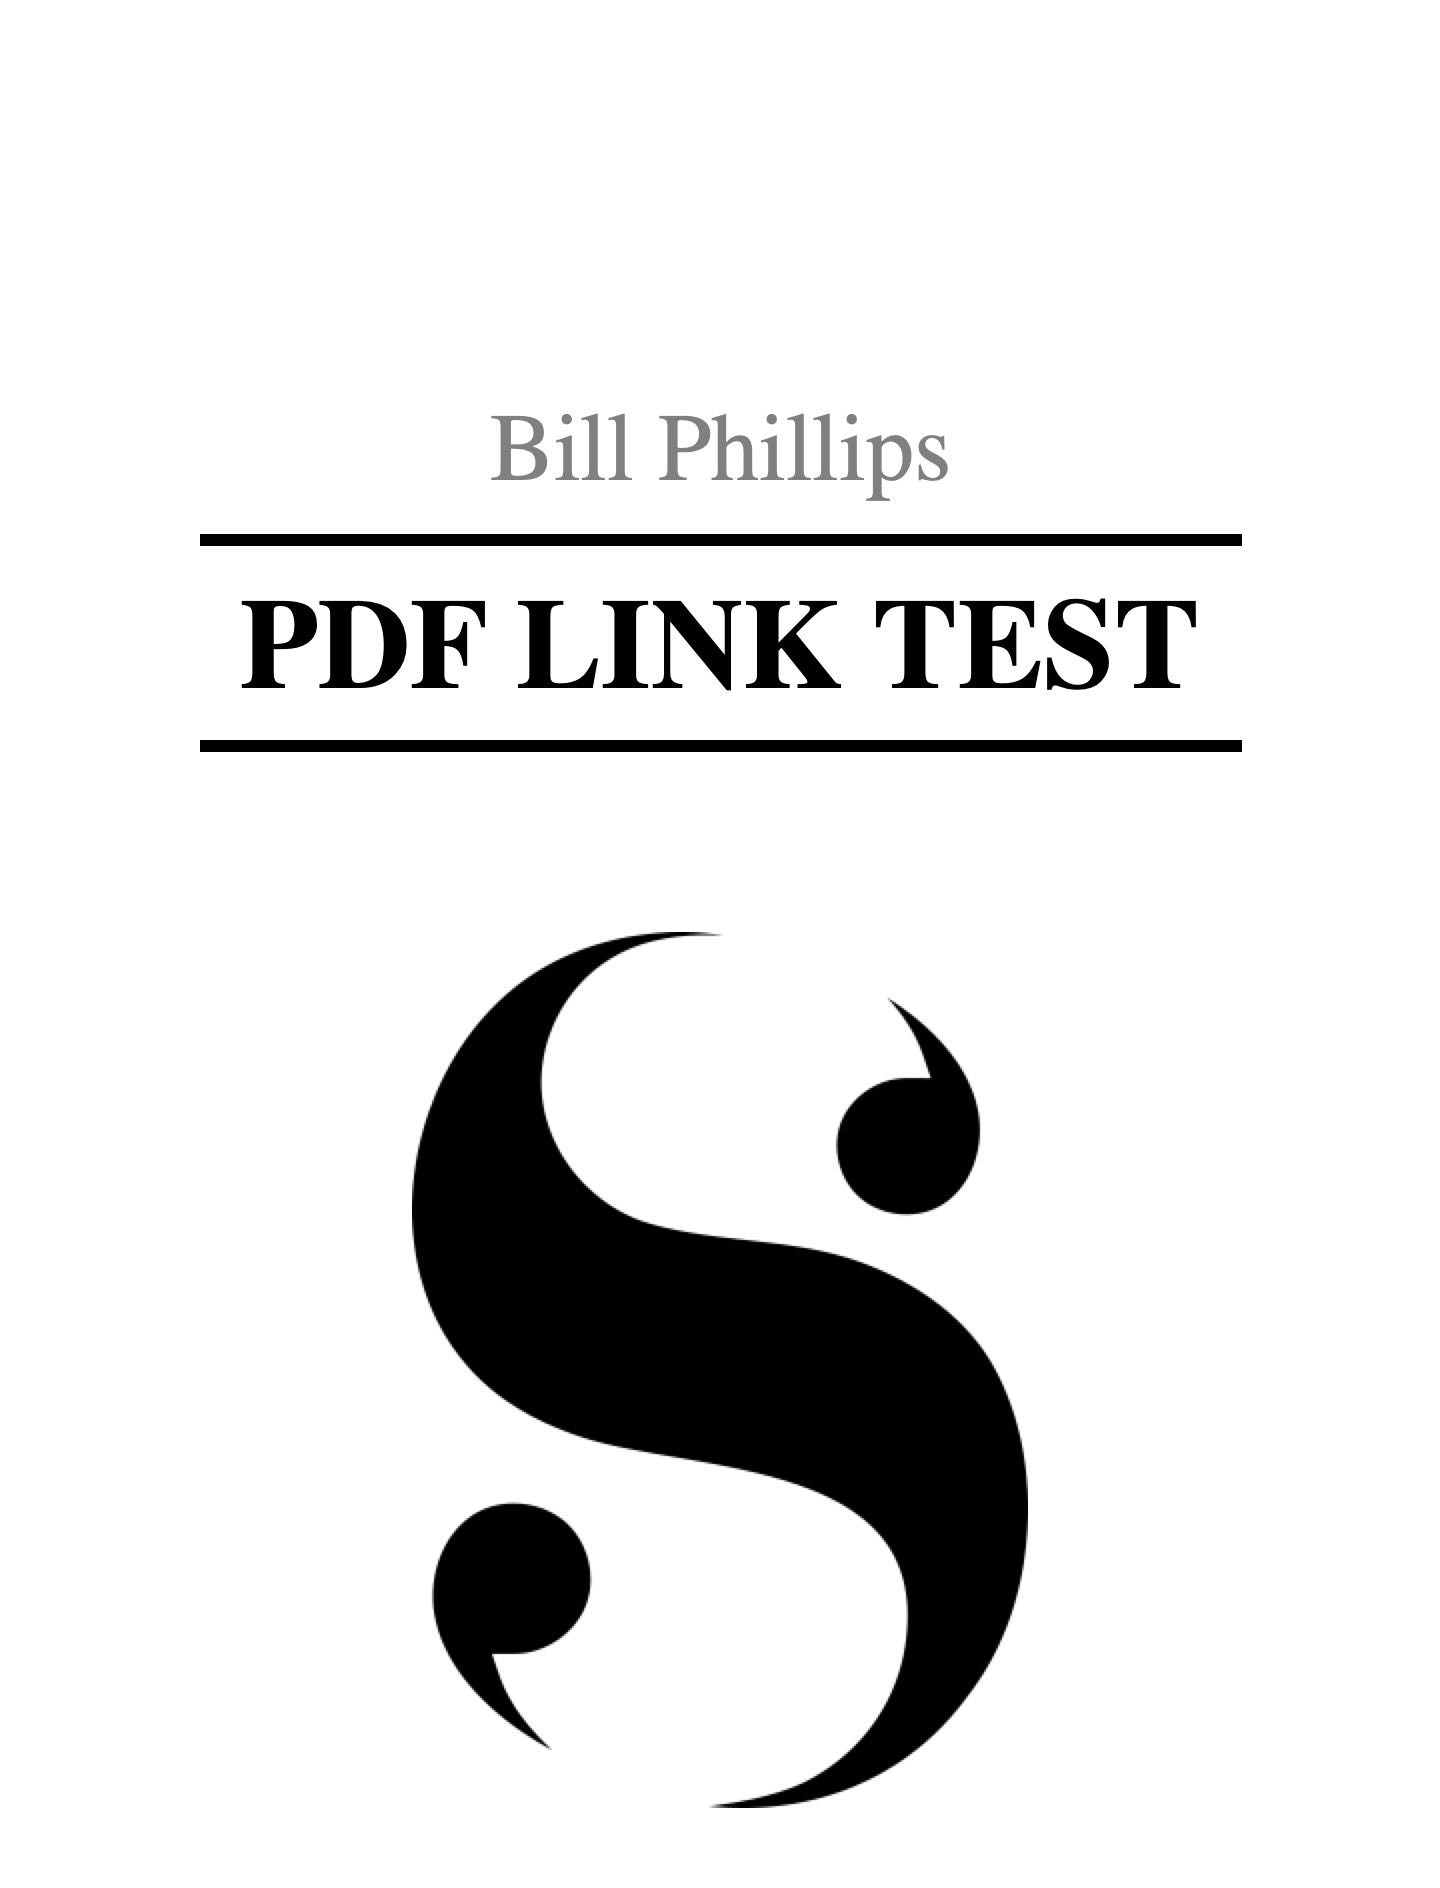
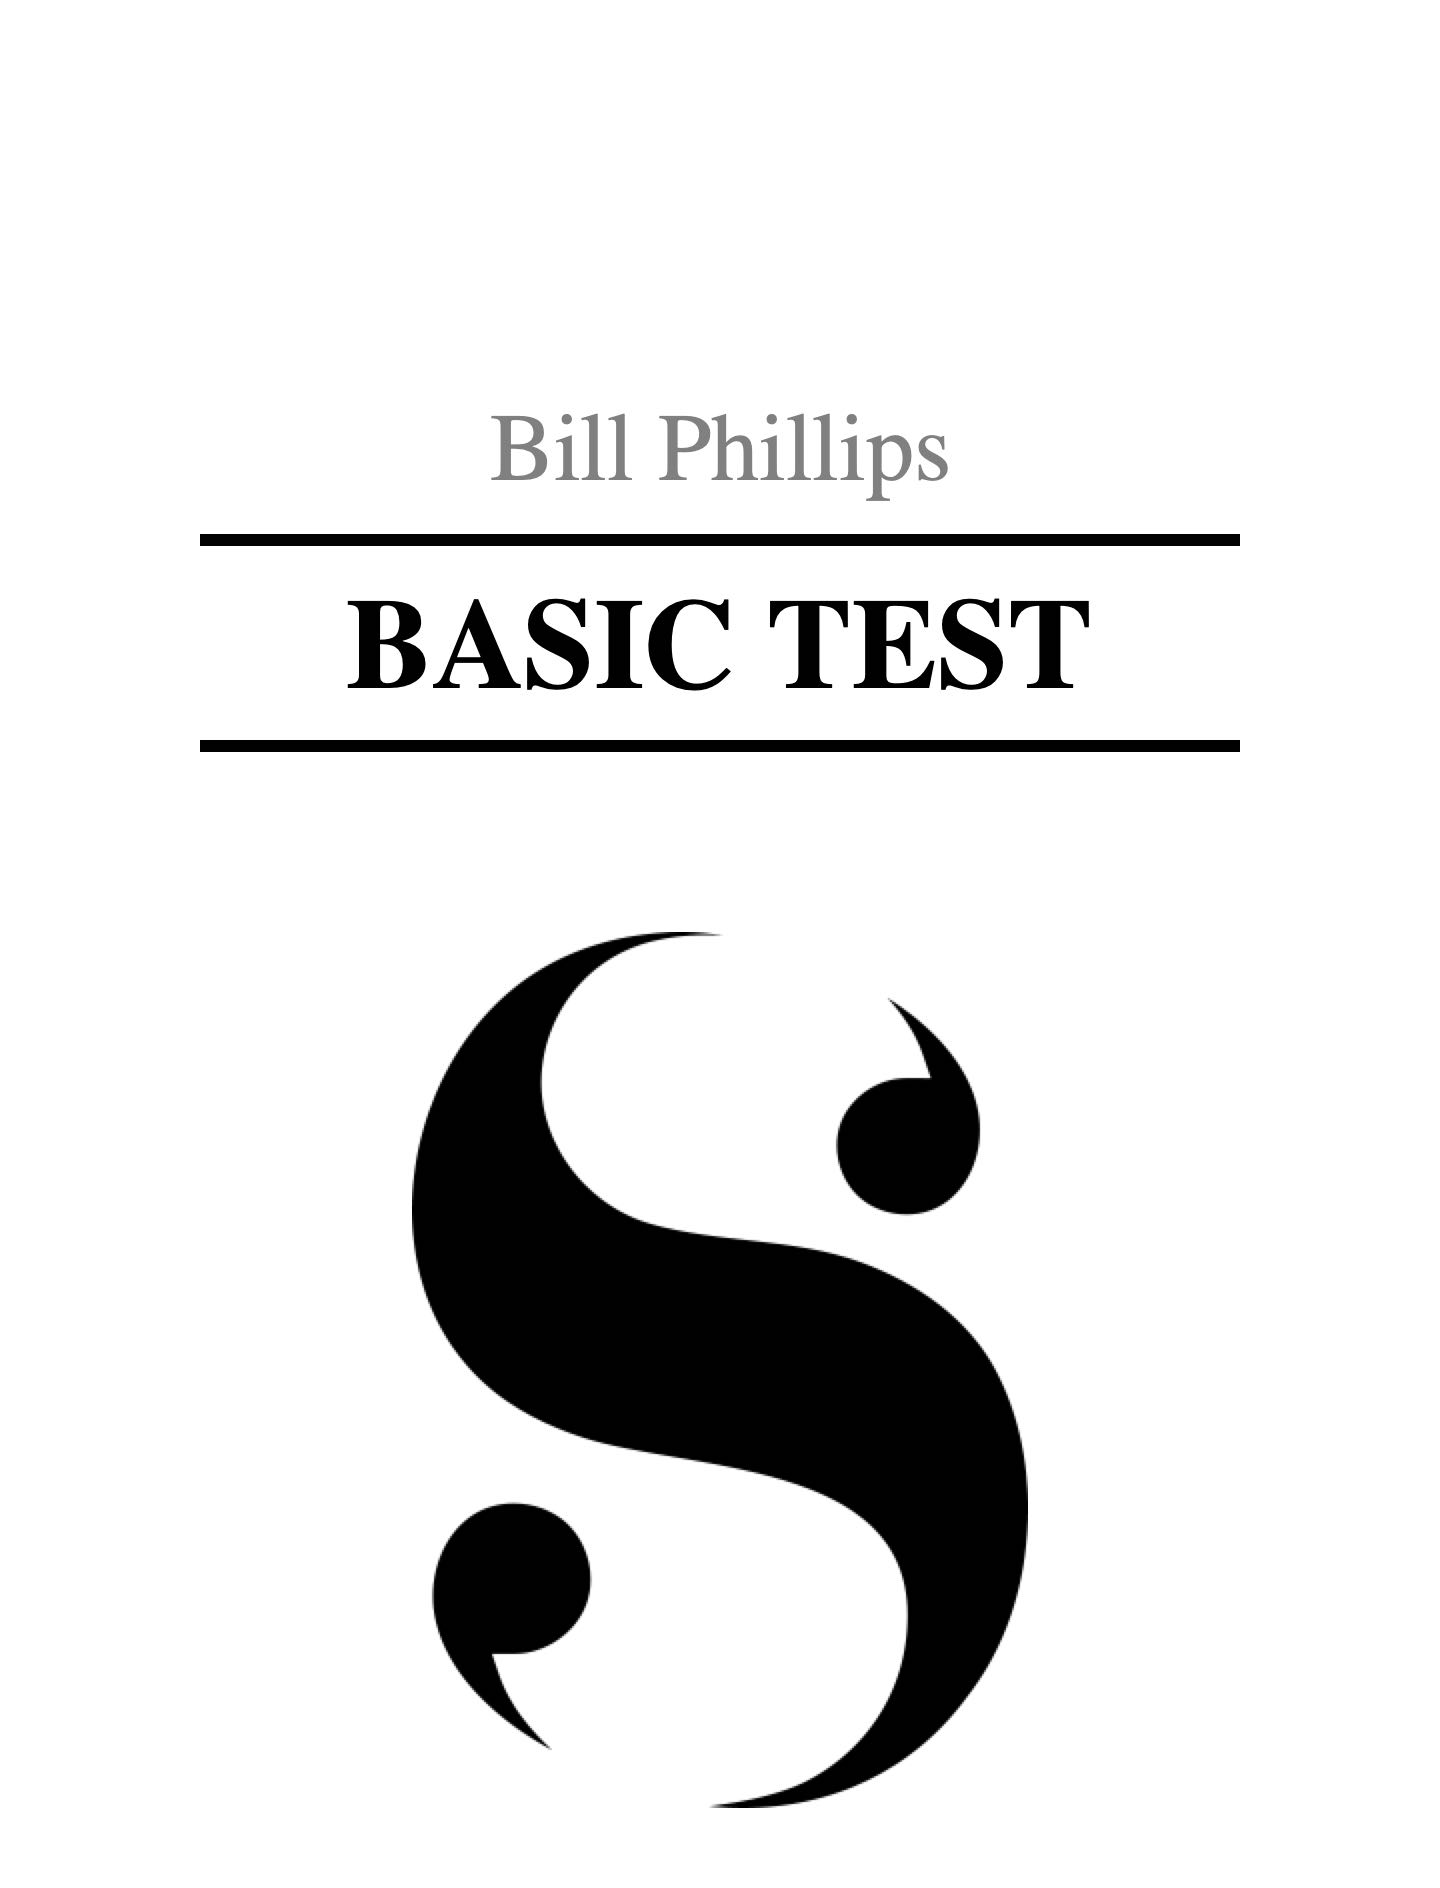
Update Basic Test sample

Changed region(s): [[0.1562, 0.3125, 0.8438, 0.375]]

diff --git a/samples/Test Project.scriv/QuickLook/Preview.html b/samples/Test Project.scriv/QuickLook/Preview.html
@@ -1,7 +1,7 @@
 <html>
 
 <head>
-<title>PDF Link Test</title>
+<title>Basic Test</title>
 <meta http-equiv="Content-Type" content="text/html; charset=utf-8">
 
 <!-- NOTE: margin property = top-right-bottom-left -->

diff --git a/resources/posts/2020/04/14/1428/Basic Test.md b/resources/posts/2020/04/14/1428/Basic Test.md
@@ -1,12 +1,10 @@
-Title: Basic Test  
-Author: Bill Phillips
-
-
 ## Heading 1
+
 Paragraph 1.1
 Paragraph 1.2
 
 ### Heading 2
+
 Paragraph 2.1
 Paragraph 2.2: `code_span`
-	code_block 2.3
+code_block 2.3
